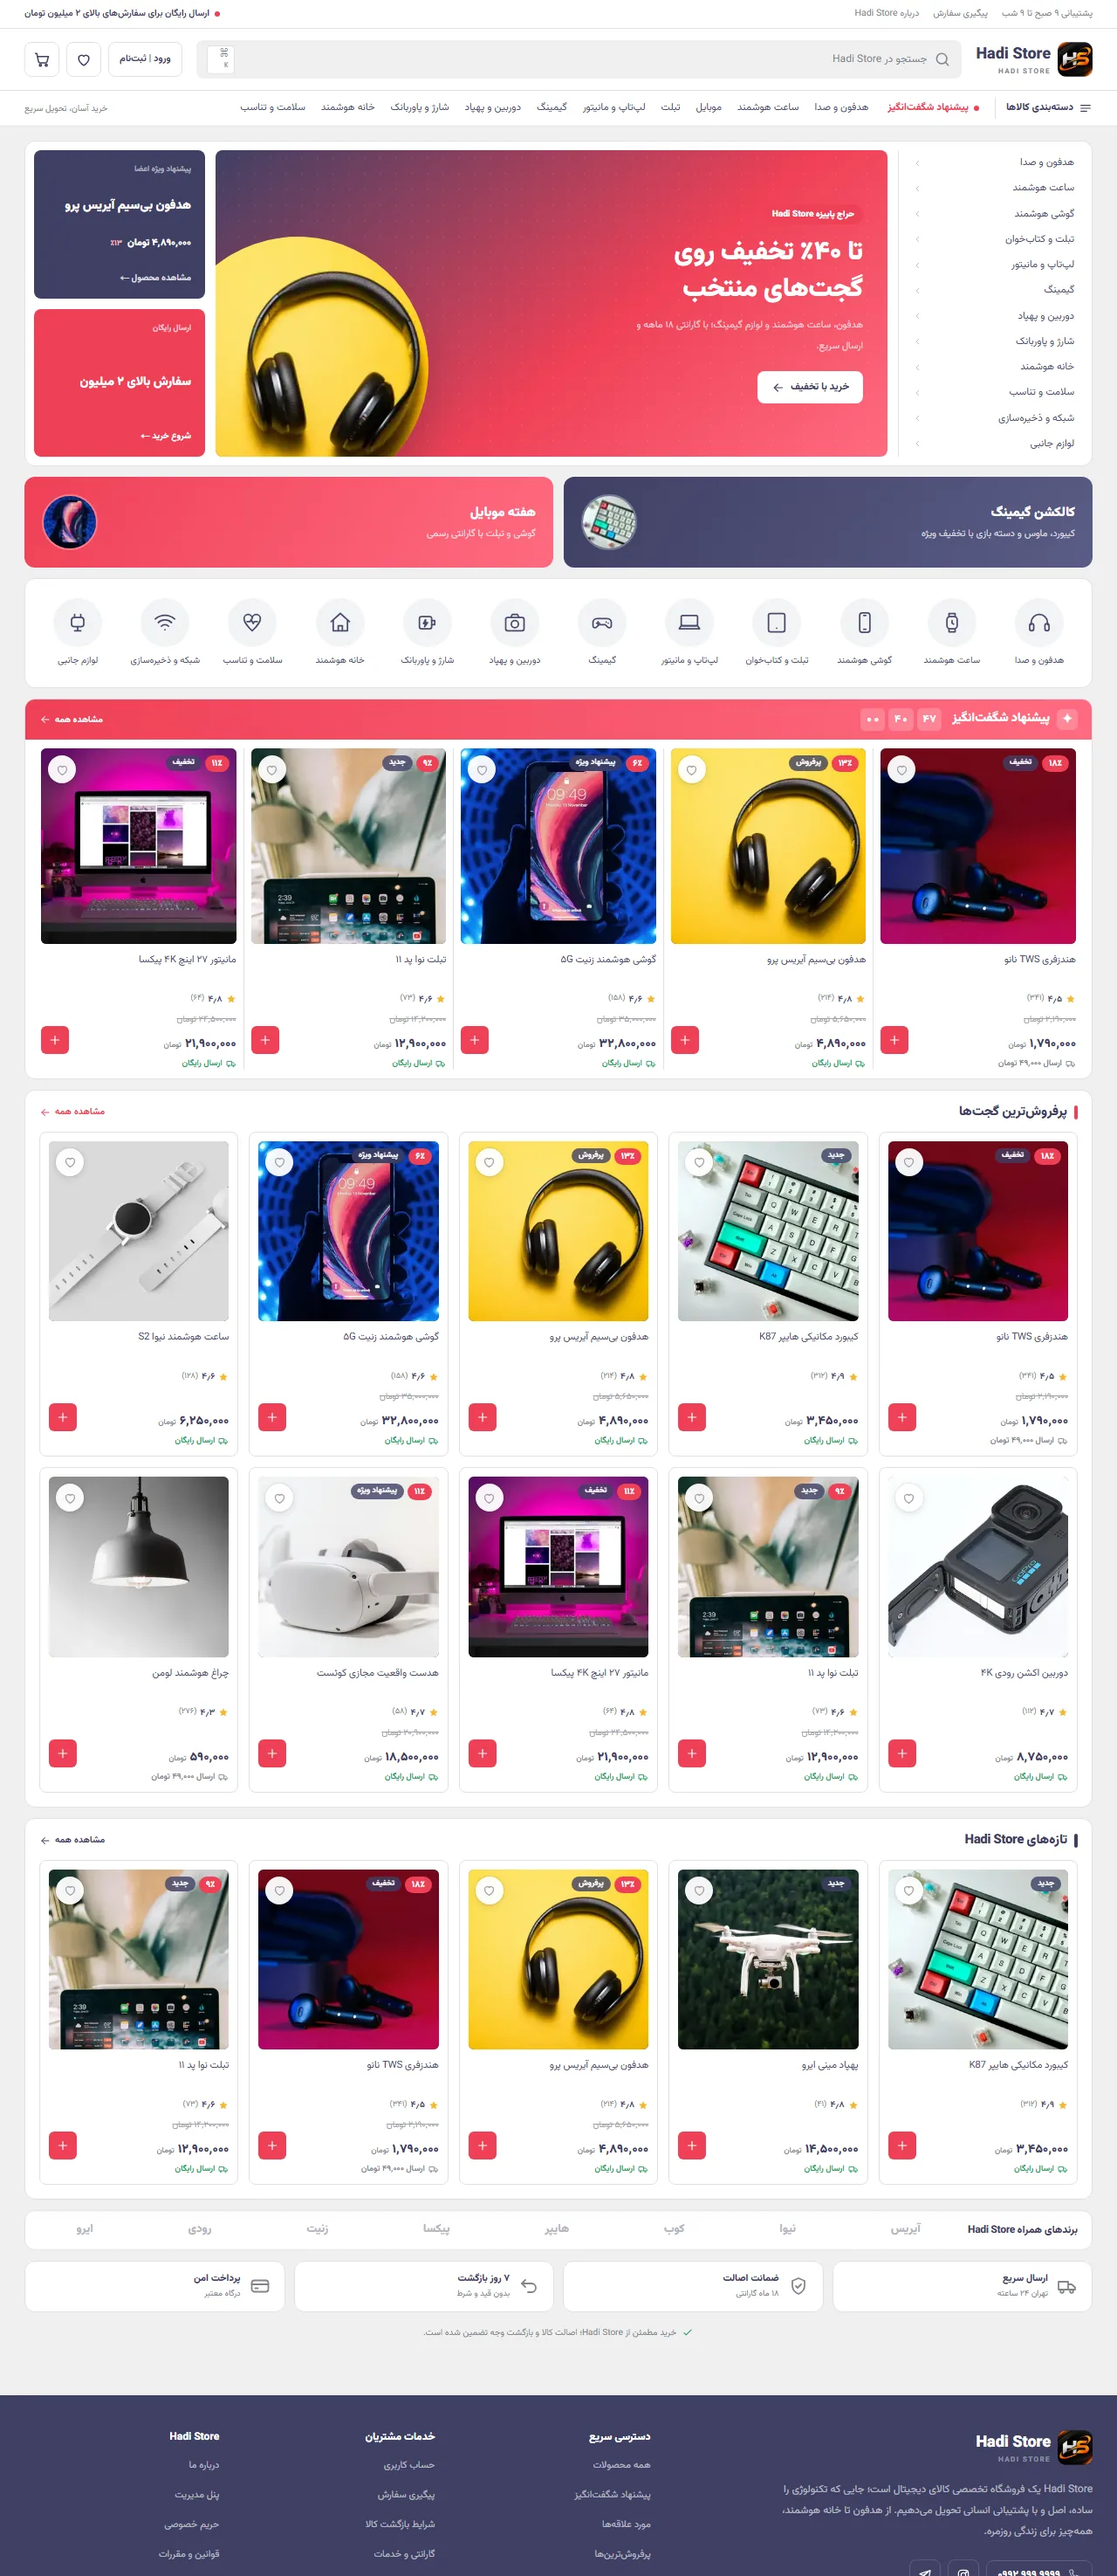
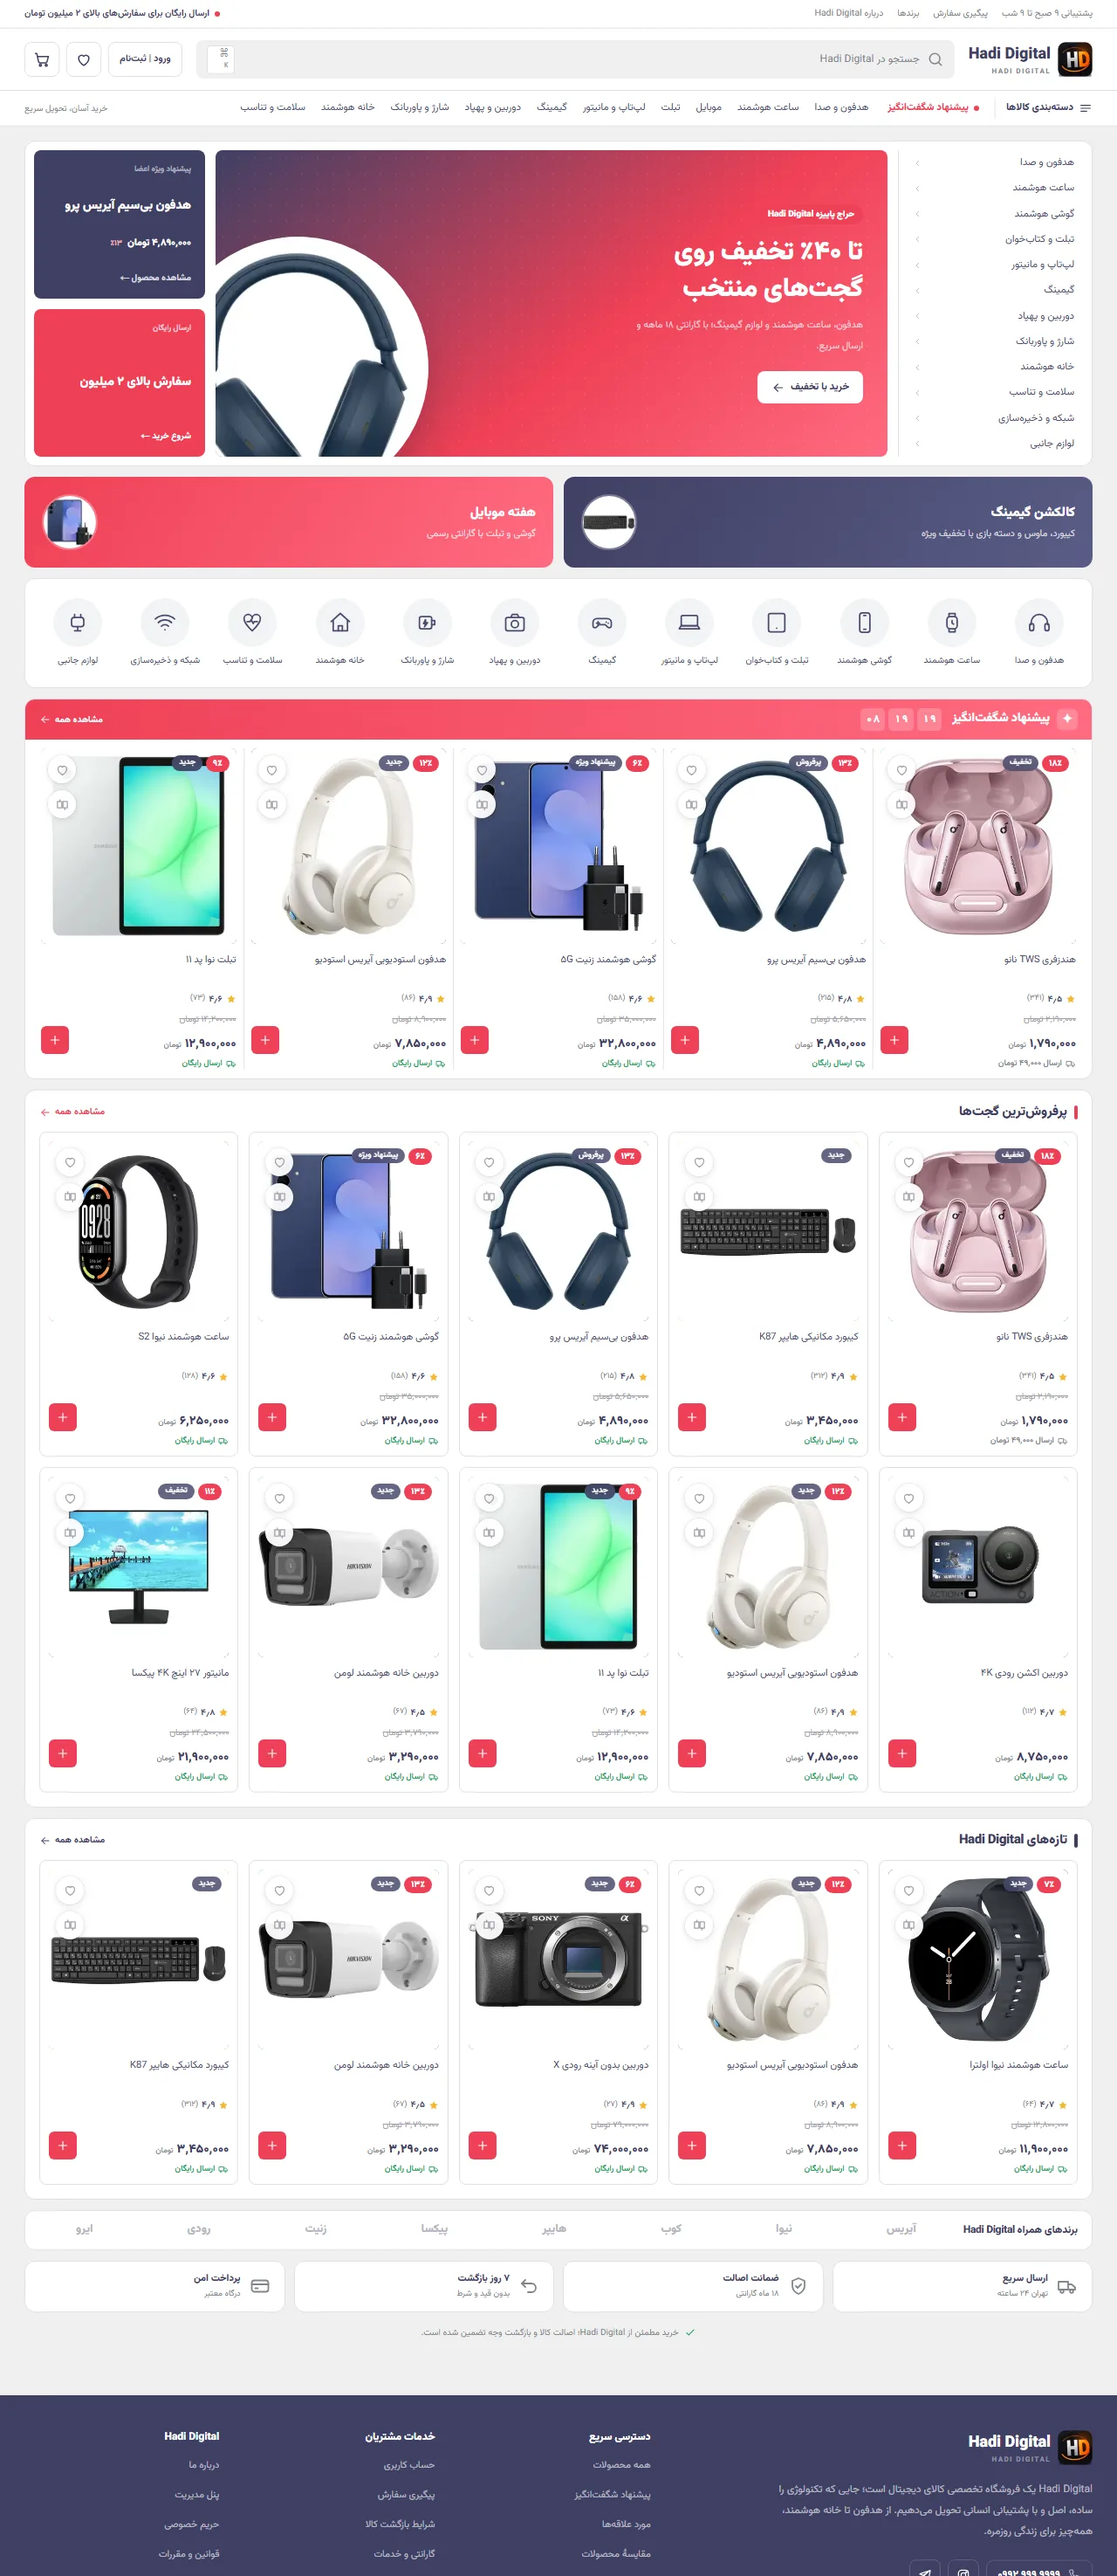
feat: rename store project to Hadi Digital

diff --git a/src/content/site.ts b/src/content/site.ts
@@ -251,7 +251,7 @@ export const site: Record<Lang, SiteContent> = {
       demoLabel: "دمو",
       items: [
         {
-          title: "فروشگاه Hadi Store",
+          title: "فروشگاه Hadi Digital",
           blurb: "فروشگاه اینترنتی کالای دیجیتال با Next.js و Postgres/Neon؛ ثبتنام و ورود، سبد خرید متصل به حساب، علاقهمندیها، تسویه و پیگیری سفارش با رابط راستبهچپ واکنشگرا.",
           tags: ["Next.js", "TypeScript", "Tailwind", "PostgreSQL"],
           year: "۱۴۰۵",
@@ -448,7 +448,7 @@ export const site: Record<Lang, SiteContent> = {
       demoLabel: "Demo",
       items: [
         {
-          title: "Hadi Store",
+          title: "Hadi Digital",
           blurb: "A digital-gadget storefront built with Next.js and Postgres/Neon: accounts and sign-in, a login-aware cart, wishlist, checkout and order tracking, all in a responsive RTL-first interface.",
           tags: ["Next.js", "TypeScript", "Tailwind", "PostgreSQL"],
           year: "2026",
